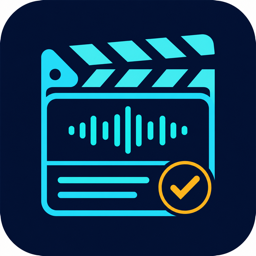
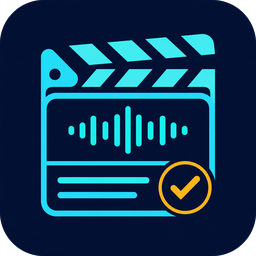
fix: иконки с прозрачными углами — маленькие (ZimaOS, вкладка браузера, .app) были с белыми

diff --git a/CLAUDE.md b/CLAUDE.md
@@ -139,9 +139,11 @@ Compose-файлы тянут `:latest`: после релиза на ZimaOS —
 - Проверка вида — Playwright с установленным браузером (только для разработки, в
   `requirements.txt` не входит): `chromium.launch(executable_path=…)`.
 
-Иконки: `assets/app-icon-256.png` → `web/static/icons/icon-64.png` и `icon-192.png`
-(значок вкладки), `assets/app-icon.ico` (Windows, кадры 16–256), крупный исходник
-`assets/app-icon-source.png` (из него `make_app.sh` собирает `.icns`).
+Иконки: `assets/app-icon.png` (1254 px, **прозрачные углы**) — из неё `assets/app-icon-256.png`
+(иконка в ZimaOS, по ссылке из `x-casaos`), `web/static/icons/icon-64.png` и `icon-192.png`
+(значок вкладки), `.icns` для macOS (`make_app.sh`, спека). `assets/app-icon.ico` — Windows,
+кадры 16–256. `assets/app-icon-source.png` — исходник на белом фоне, в сборки не идёт:
+углы у него белые (скругление — окружность, центр 214,7 px от края, радиус 215,2 px).
 
 ## Тесты
 
